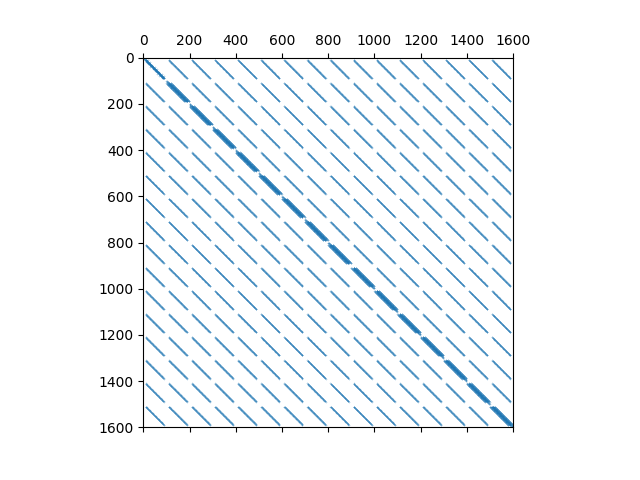
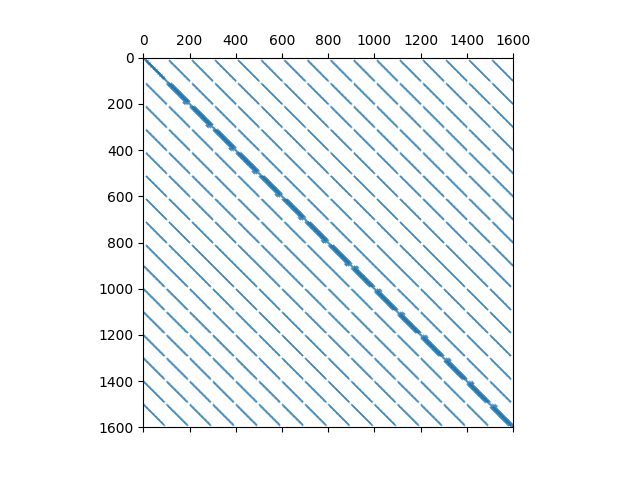
Sparsity patterns look good. Scipy solver works pretty well. Strange alternating striped patterns in y direction in irrad plot. Kelp seems to have no effect.

Changed region(s): [[0.5312, 0.5312, 0.5625, 0.5625]]

diff --git a/gen_matrix_2d.py b/gen_matrix_2d.py
@@ -1,7 +1,7 @@
 # File Name: gen_matrix.py
 # Description: Generate matrix from RTE & create image to show structure
 # Created: Sun Apr 09, 2017 | 01:57pm EDT
-# Last Modified: Mon Apr 10, 2017 | 03:06pm EDT
+# Last Modified: Tue Apr 11, 2017 | 06:12pm EDT
 
 #-#-#-#-#-#-#-#-#-#-#-#-#-#-#-#-#-#-#-#-#-#-#-#-#-#-#-#-#-#-#-#-#-#-#-#-
 #                           GNU GPL LICENSE                            #
@@ -115,10 +115,11 @@ class KelpScenario(object):
                     raise NotImplementedError(
                             "Prob. dist. on lengths not supported.")
 
-    def calculate_rte_matrix(self,var_order):
+    def calculate_rte_matrix(self,var_order=[0,1,2]):
         # RTE matrix in linked list format
         mat = sparse.lil_matrix((*[np.prod(self._var_lengths)]*2,))
         rhs = sparse.lil_matrix((np.prod(self._var_lengths),1))
+        self._var_order = var_order
         
         # Alias for index function
         indx = lambda ii,jj,kk: self._matrix_index(var_order,(ii,jj,kk))
@@ -134,20 +135,40 @@ class KelpScenario(object):
                     kk = inds[var_order.index(2)]
                     th = self._theta[kk]
                     row = indx(ii,jj,kk)
-                    #print("(ii,jj,kk) = ({},{},{})".format(ii,jj,kk))
+
+                    ## Cases for y derivative ##
 
                     # Surface BC affects downwelling radiance
                     # theta < pi (use kk <= nth/2 since theta[nth/2] < pi)
                     if jj == 0:
+                        # Surface boundary condition
                         if kk <= self._nth/2:
                             mat[row,row] = 1
                             rhs[row] = self._surf_bc_fun(self._theta[kk])
+                            pde_flag = False
+                        else:
+                            # FD2 for 1st derivative in y
+                            mat[row,indx(ii,jj,kk)] = -3*np.sin(th)/(2*self._dy)
+                            mat[row,indx(ii,jj+1,kk)] = 2*np.sin(th)/(self._dy)
+                            mat[row,indx(ii,jj+2,kk)] = -np.sin(th)/(2*self._dy)
+                            pde_flag = True
                     # Bottom BC: no upwelling radiance
                     # theta >= pi
                     elif jj == self._ny-1:
                         if kk > self._nth/2:
+                            # Bottom BC
                             mat[row,row] = 1
                             rhs[row] = 0
+                            pde_flag = False
+                        else:
+                            # BD2 for 1st derivative in y
+                            mat[row,indx(ii,jj-2,kk)] = np.sin(th)/(2*self._dy)
+                            mat[row,indx(ii,jj-1,kk)] = -2*np.sin(th)/(self._dy)
+                            mat[row,indx(ii,jj,kk)] = 3*np.sin(th)/(2*self._dy)
+                            pde_flag = True
+
+                    # Interior of domain
+                    # CD2 for y derivative
                     else:
                         # Modulus for periodic x BC
                         ip1 = np.mod(ii+1,self._nx)
@@ -160,6 +181,11 @@ class KelpScenario(object):
                         mat[row,indx(ii,jj+1,kk)] = np.sin(th)/(2*self._dy)
                         mat[row,indx(ii,jj-1,kk)] = -np.sin(th)/(2*self._dy)
 
+                        pde_flag = True
+
+                    # Apply PDE when appropriate
+                    # atten. & x derivative & scattering
+                    if pde_flag:
                         # attenuation
                         mat[row,row] = self._atn_coef
                         # scattering
@@ -213,14 +239,78 @@ class KelpScenario(object):
 
     # Like write_rte_matrix_png, but only black/white.
     # No gray to represent magnitude.
-    def write_int_matrix_png(self,imgfile):
+    def write_int_matrix_png(self,imgfile,guides=True):
         mat = sparse.csr_matrix(self._rte_matrix)
         mat[self._rte_matrix.nonzero()] = 256
-        mat_int = 256-abs(mat).floor().astype(int).toarray()
-        misc.imsave(imgfile,mat_int)
+
+        mat_int = abs(mat).floor().astype(int).toarray()
+
+        if guides:
+            mat_int = self._add_guides(mat_int,256)
+
+        # Reverse colors black - white
+        mat_rev = 256 - mat_int
+
+        misc.imsave(imgfile,mat_rev)
+
+    # Add horizontal & vertical lines of .5 & .25 of maxval at grid & subgrid
+    # Grid occupies 2 pixels, subgrid occupies 1 pixel
+    # Guides are added on first row & column of each block
+    # (ii=1 & ii=1, jj=0 & jj=1 for grid) (ii=0,jj=0 for subgrid)
+    # Only fill empty (=0) entries
+    def _add_guides(self,mat,maxval=1):
+        var_lengths = self._var_lengths[[self._var_order]]
+
+        for ii in range(var_lengths[0]):
+            # Grid
+            ind1 = ii * np.prod(var_lengths[1:])
+            # Vertical
+            mat[mat[:,ind1]==0,ind1] = 0.5 * maxval
+            mat[mat[:,ind1+1]==0,ind1+1] = 0.5 * maxval
+            # Horizontal
+            mat[ind1,mat[ind1,:]==0] = 0.5 * maxval
+            mat[ind1+1,mat[ind1+1,:]==0] = 0.5 * maxval
+
+            # Subgrid
+            for jj in range(var_lengths[1]):
+                ind2 = ind1 + jj * var_lengths[2]
+                # Vertical
+                mat[mat[:,ind2]==0,ind2] = 0.25 * maxval
+                # Horizontal
+                mat[ind2,mat[ind2,:]==0] = 0.25 * maxval
+
+        return mat
 
     def write_rte_matrix_txt(self,out_file):
         pass
 
     def write_rte_matrix_hdf(self,out_file):
         pass
+
+    def write_rte_rhs_mat(self,out_file):
+        pass
+
+    # Solve matrix equation using scipy's sparse solver.
+    def solve_system(self):
+        # Solve
+        sol = sparse.linalg.spsolve(self._rte_matrix,self._rte_rhs)
+
+        # Convert to 3D array, maintaining var order
+        sol3d = sol.reshape(self._var_lengths[[self._var_order]])
+
+        # Swap axes to order axes as [xx,yy,theta]
+        self._rad = sol3d.transpose(np.argsort(self._var_order))
+
+    # Integrate radiance over angles to get irradiance
+    def calc_irrad(self):
+        self._irrad = self._dth * self._rad.sum(axis=2)
+
+    # Plot irradiance
+    def plot_irrad(self,imgfile=None):
+        plt.imshow(self._irrad.T)
+        plt.colorbar()
+
+        if imgfile != None:
+            plt.savefig(imgfile)
+
+

diff --git a/kelptest.py b/kelptest.py
@@ -1,7 +1,7 @@
 # File Name: kelptest.py
 # Description: Generate a few matrices with gen_matrix_2d.py
 # Created: Mon Apr 10, 2017 | 10:00am EDT
-# Last Modified: Mon Apr 10, 2017 | 03:08pm EDT
+# Last Modified: Tue Apr 11, 2017 | 06:14pm EDT
 
 #-#-#-#-#-#-#-#-#-#-#-#-#-#-#-#-#-#-#-#-#-#-#-#-#-#-#-#-#-#-#-#-#-#-#-#-
 #                           GNU GPL LICENSE                            #
@@ -34,16 +34,16 @@ def surf_bc_fun(th):
 def vsf(th):
     return np.exp(-th/2)
 
-dx = 1e-1
-dy = 1e-1
-dth = np.pi/8
+dx = 1e-2
+dy = 1e-2
+dth = np.pi/4
 mesh = [dx,dy,dth]
 
 nx = int(np.floor(1/dx))
 ny = int(np.floor(1/dy))
 nth = int(np.floor(2*np.pi/dth))
 
-kelp_lengths = np.ones(ny)
+kelp_lengths = np.exp(-1-np.arange(ny)/10)
 ind = np.ones(ny)
 
 abs_coef = 1
@@ -52,10 +52,27 @@ iops = [vsf,abs_coef,sct_coef]
 
 scenario = gm2.KelpScenario(mesh,kelp_lengths,ind,surf_bc_fun,iops)
 
-# Loop through all possible variable orderings
-for ii,var_order in enumerate(it.permutations(range(3))):
-    print("ii={}: {}".format(ii,var_order))
-    scenario.calculate_rte_matrix(var_order)
-    scenario.write_rte_matrix_png('img/rte2d_{}{}{}.png'.format(*var_order))
-    scenario.write_int_matrix_png('img/int2d_{}{}{}.png'.format(*var_order))
-    scenario.plot_rte_matrix('img/spy2d_{}{}{}.png'.format(*var_order))
+# What to do
+gen_sparsity_plots = False
+plot_irrad = True
+
+if gen_sparsity_plots:
+    # Loop through all possible variable orderings
+    for ii,var_order in enumerate(it.permutations(range(3))):
+        print("ii={}: {}".format(ii,var_order))
+        scenario.calculate_rte_matrix(var_order)
+        scenario.write_rte_matrix_png('img/rte2d_{}{}{}.png'.format(*var_order))
+        scenario.write_int_matrix_png('img/int2d_{}{}{}.png'.format(*var_order))
+        scenario.plot_rte_matrix('img/spy2d_{}{}{}.png'.format(*var_order))
+
+if plot_irrad:
+    print("Creating matrix")
+    scenario.calculate_rte_matrix()
+    #scenario.write_int_matrix_png('solve/sparsity.png')
+    print("Solving system")
+    scenario.solve_system()
+    print("Calculating irradiance")
+    scenario.calc_irrad()
+    scenario.plot_irrad('solve/irrad.png')
+    print("Done!")
+
